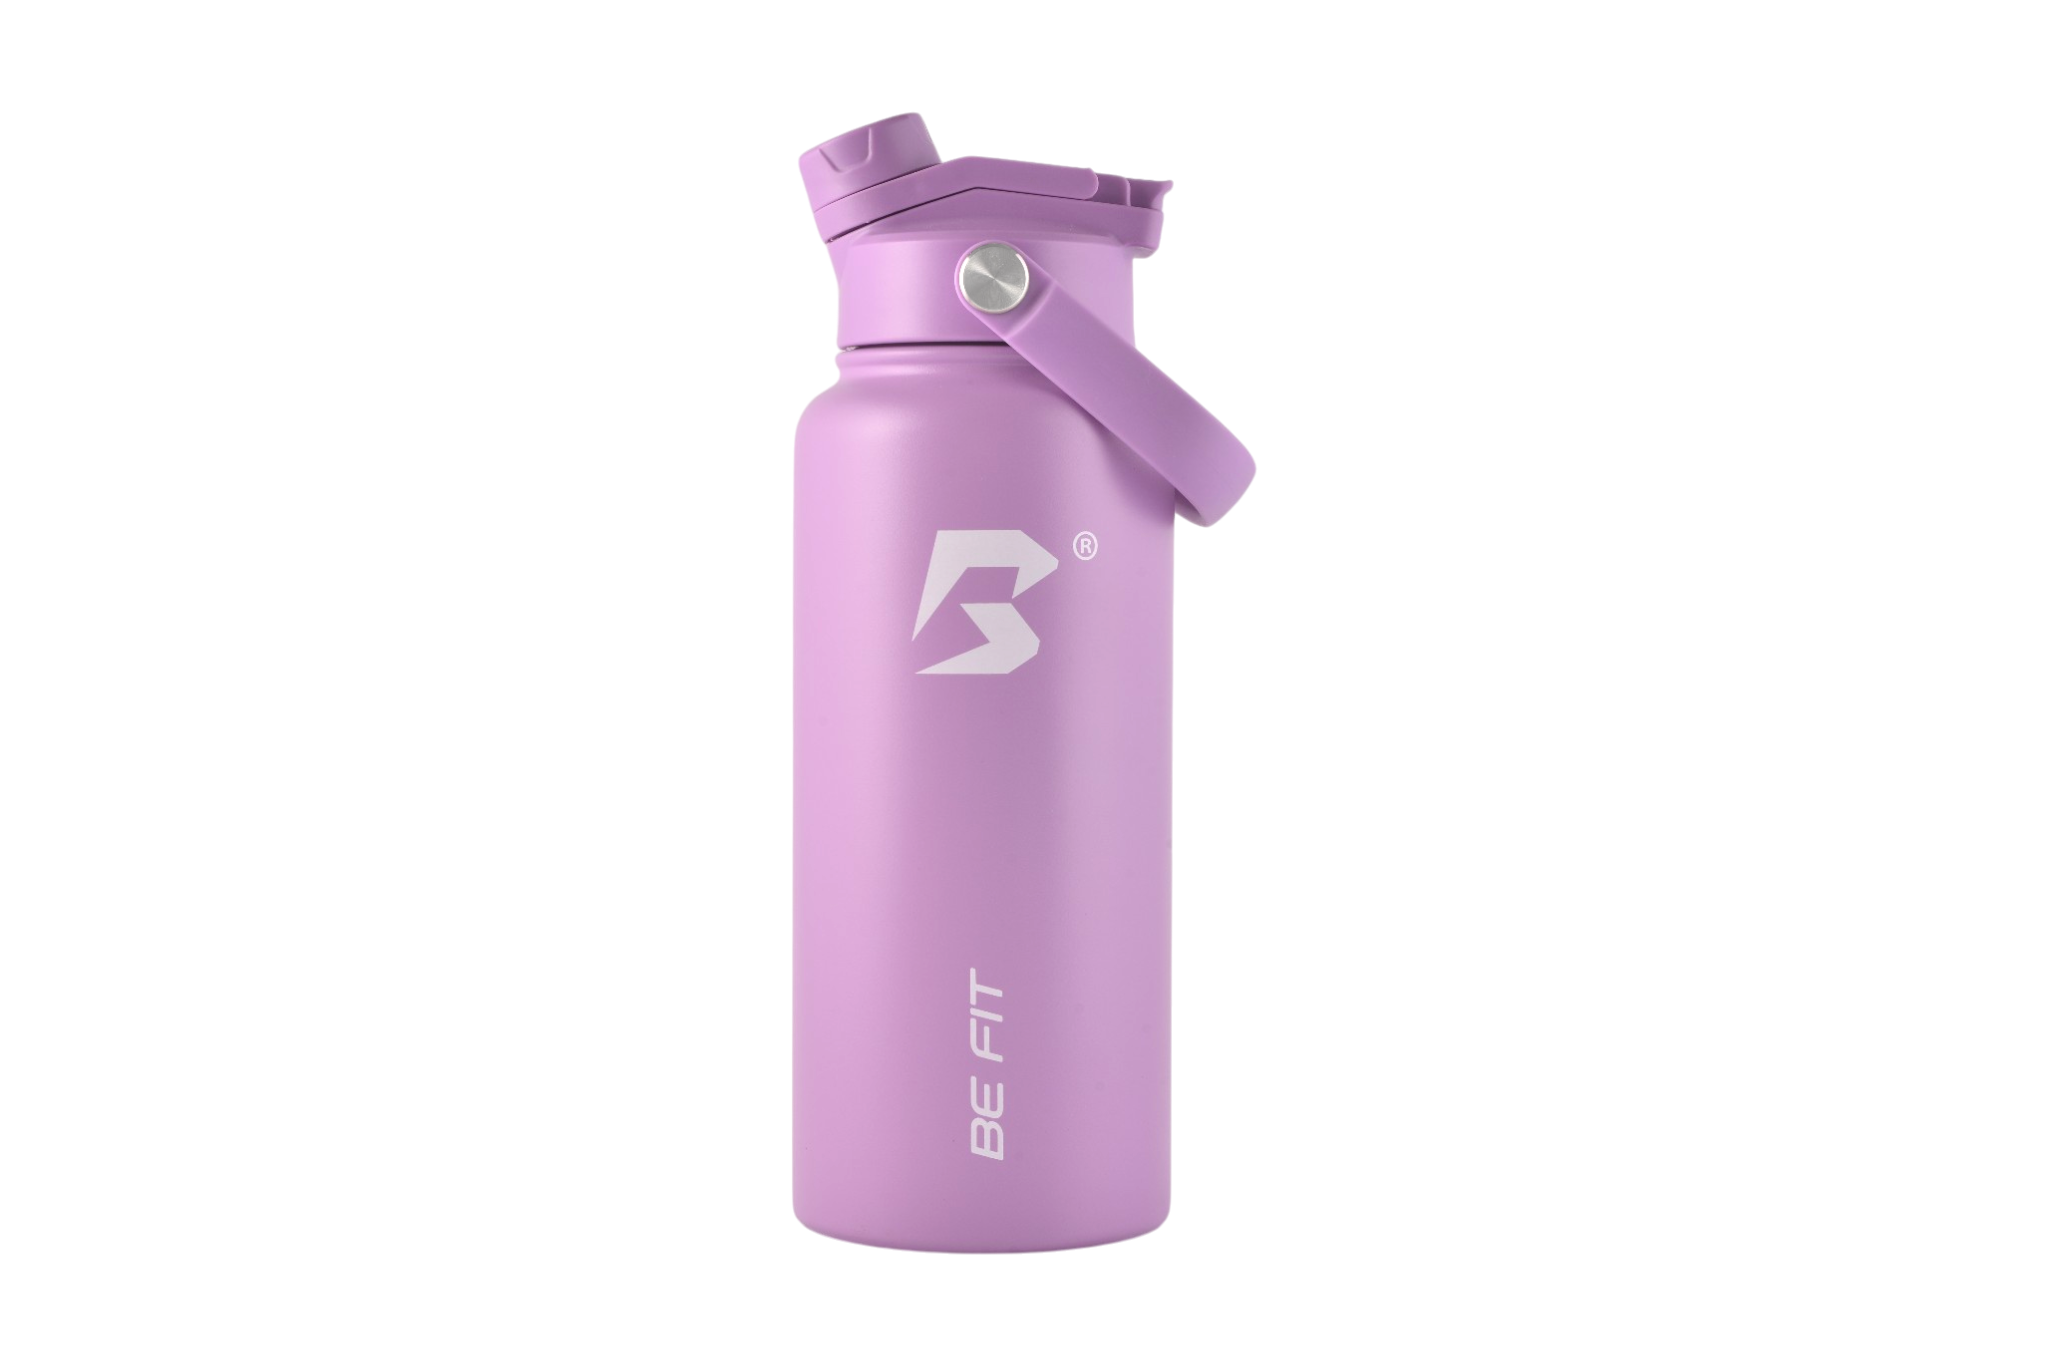
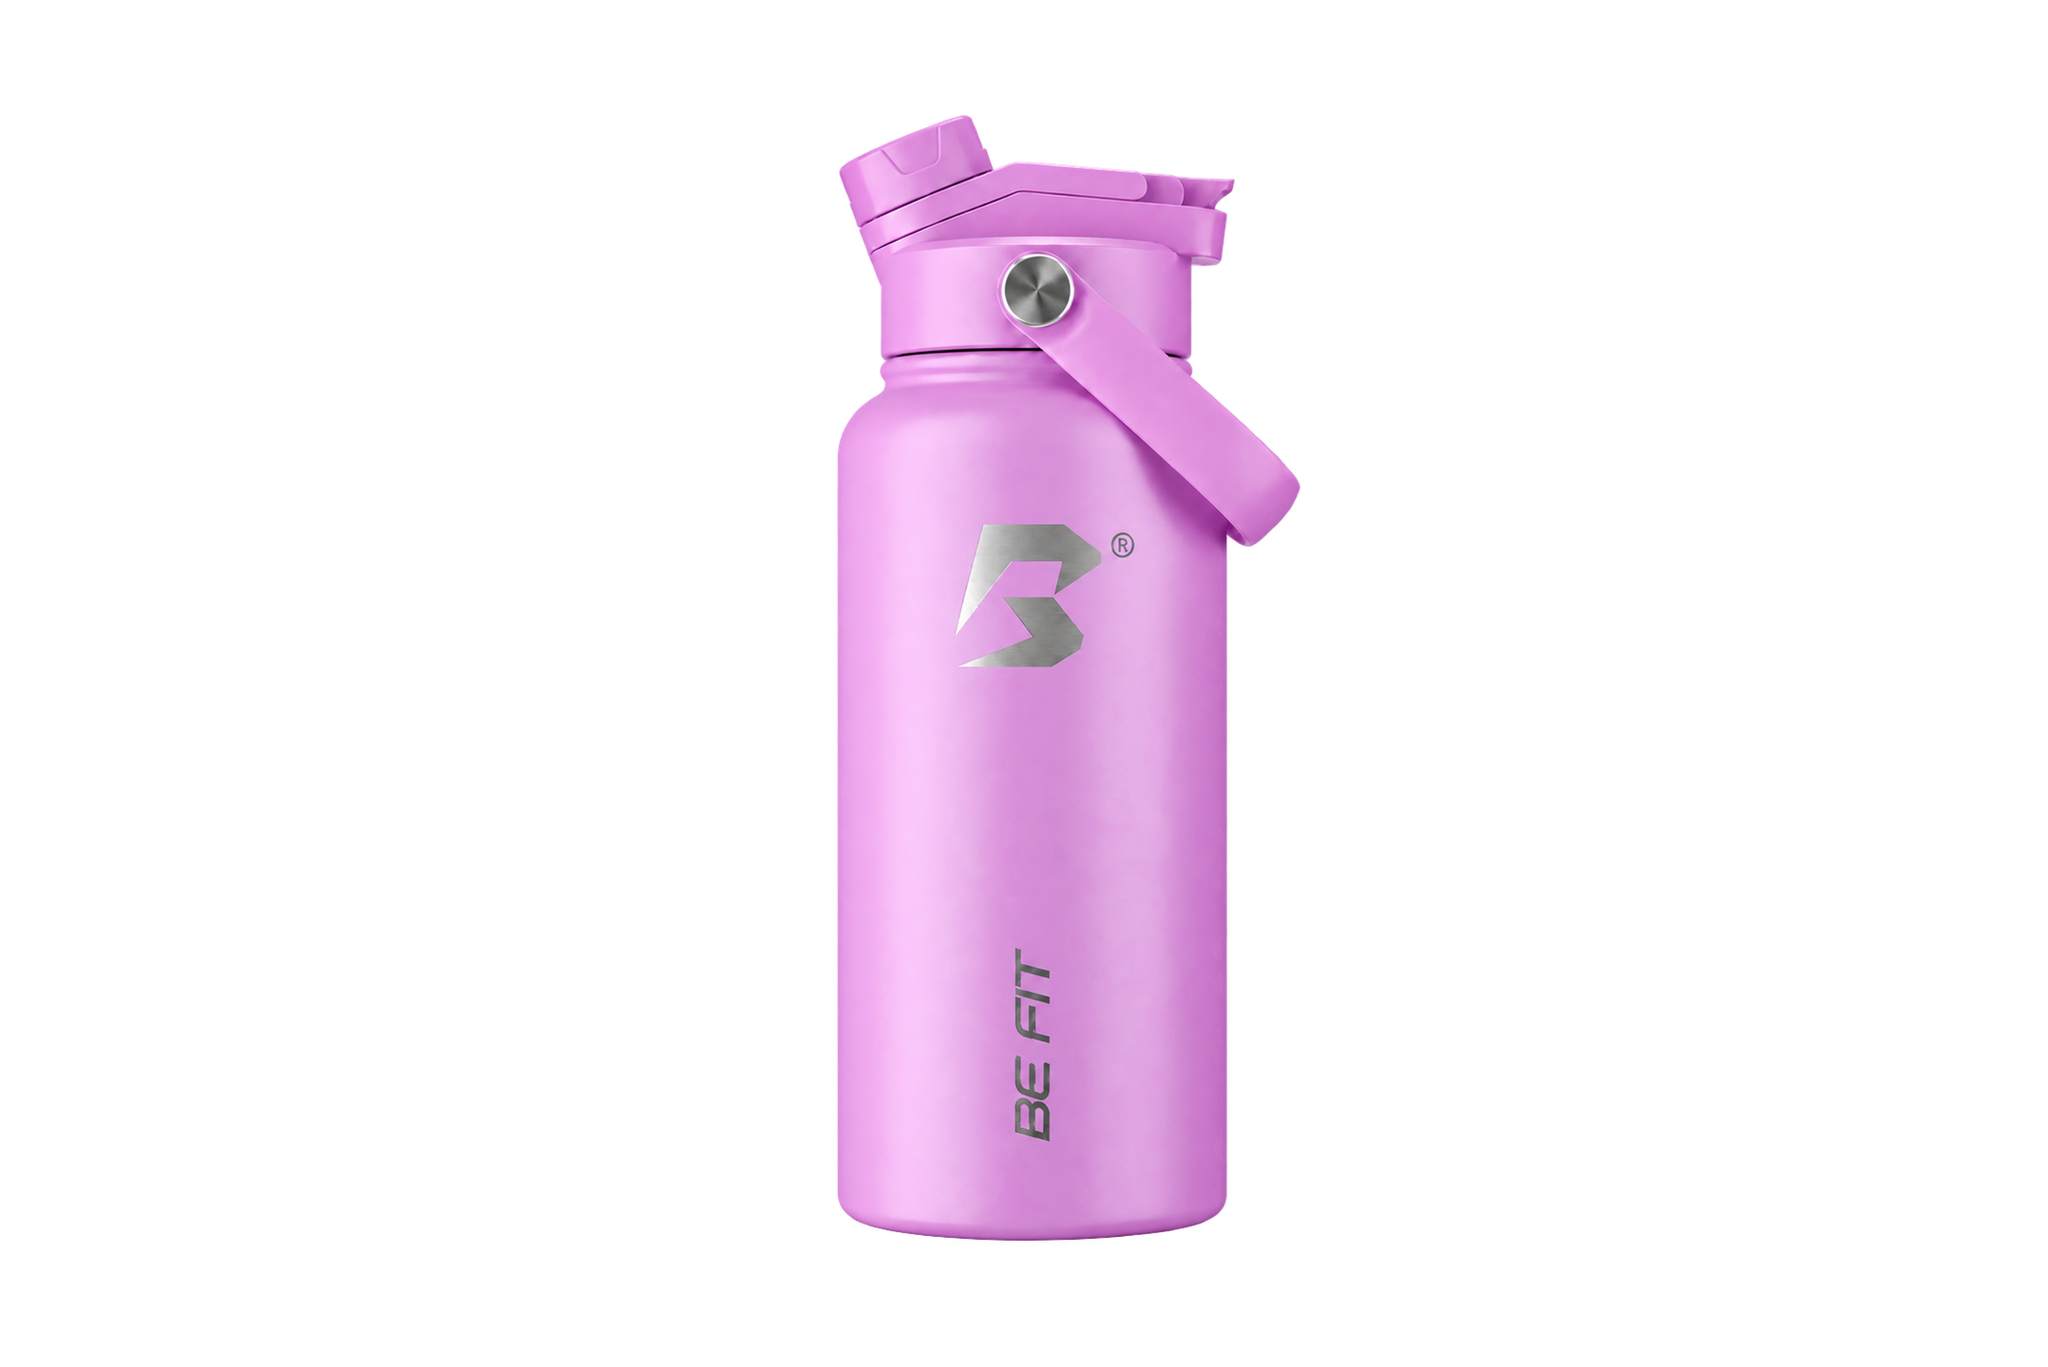
Update 1L bottle color assets

Changed region(s): [[0.375, 0.0614, 0.6562, 0.9217]]

diff --git a/src/components/Customizer.jsx b/src/components/Customizer.jsx
@@ -24,16 +24,16 @@ const normalizeColorKey = (s) => String(s || '').toLowerCase().replace(/[^a-z0-9
 
 // SWIGGER color definitions per format (Moved outside for robust matching)
 const SWIGGER_COLORS_946ML = [
-    { id: 'midnight-black', name: 'Midnight Black', hex: '#2C2C2C', img: '2026/03/rvs-drinkfles-1-liter-zwart.png' },
-    { id: 'pure-white', name: 'Pure White', hex: '#F5F5F5', img: '2025/12/rvs-drinkfles-1-liter-pure-white-swigger.jpg', lightColor: true },
-    { id: 'warm-white', name: 'Warm White', hex: '#E8E2D6', img: '2025/12/rvs-drinkfles-1-liter-warm-white-swigger.jpg', lightColor: true },
-    { id: 'sky-blue', name: 'Sky Blue', hex: '#8BAFD4', img: '2025/12/rvs-drinkfles-1-liter-sky-blue-swigger.jpg', lightColor: true },
-    { id: 'deep-navy', name: 'Deep Navy', hex: '#4A5568', img: '2025/12/rvs-drinkfles-1-liter-deep-navy-swigger.jpg' },
-    { id: 'berry-wine', name: 'Berry Wine', hex: '#B8878F', img: '2025/12/rvs-drinkfles-1-liter-berry-wine-swigger.jpg' },
-    { id: 'candy-pink', name: 'Candy Pink', hex: '#E8B0C0', img: '2025/12/rvs-drinkfles-1-liter-candy-pink-swigger.jpg', lightColor: true },
-    { id: 'lavender-purple', name: 'Lavender Purple', hex: '#B49CC8', img: '2025/12/rvs-drinkfles-1-liter-lavender-purple-swigger.jpg', lightColor: true },
-    { id: 'forest-green', name: 'Forest Green', hex: '#6B8F7B', img: '2025/12/rvs-drinkfles-1-liter-forest-green-swigger.jpg' },
-    { id: 'dip-dye-mint', name: 'Dip Dye Mint', hex: '#C5E8D8', img: '2025/12/rvs-drinkfles-1-liter-dip-dye-mint-swigger.jpg', lightColor: true },
+    { id: 'midnight-black', name: 'Midnight Black', hex: '#2C2C2C' },
+    { id: 'pure-white', name: 'Pure White', hex: '#F5F5F5', lightColor: true },
+    { id: 'white-frost', name: 'White Frost', hex: '#EEE9DC', lightColor: true },
+    { id: 'light-grey', name: 'Light Grey', hex: '#D3CEC5', lightColor: true },
+    { id: 'sky-blue', name: 'Sky Blue', hex: '#58A9ED', lightColor: true },
+    { id: 'deep-navy', name: 'Deep Navy', hex: '#273A68' },
+    { id: 'candy-pink', name: 'Candy Pink', hex: '#F29CC0', lightColor: true },
+    { id: 'lavender-purple', name: 'Lavender Purple', hex: '#CF77D9', lightColor: true },
+    { id: 'forest-green', name: 'Forest Green', hex: '#407A65' },
+    { id: 'sage-green', name: 'Sage Green', hex: '#A9B89E', lightColor: true },
 ];
 
 const SWIGGER_COLORS_710ML = [

diff --git a/tests/designItems.test.js b/tests/designItems.test.js
@@ -9,11 +9,13 @@ test('back print areas follow the visible body center for each bottle size', () 
     assert.equal(getPrintArea('946ml', 'FRONT').x, .31);
 });
 
-test('updated 1L black assets use their recalibrated body centers', () => {
+test('updated 1L assets use their recalibrated body centers', () => {
     assert.equal(getPrintArea('946ml', 'FRONT', 'midnight-black').x, .35);
     assert.equal(getPrintArea('946ml', 'BACK', 'midnight-black').x, .30);
-    assert.equal(getPrintArea('946ml', 'FRONT', 'pure-white').x, .31);
-    assert.equal(getPrintArea('946ml', 'BACK', 'pure-white').x, .365);
+    assert.equal(getPrintArea('946ml', 'FRONT', 'pure-white').x, .35);
+    assert.equal(getPrintArea('946ml', 'BACK', 'pure-white').x, .30);
+    assert.equal(getPrintArea('946ml', 'FRONT', 'sage-green').x, .35);
+    assert.equal(getPrintArea('946ml', 'BACK', 'white-frost').x, .30);
 });
 
 test('all rotated corners remain inside the print area across sizes and sides', () => {

diff --git a/src/components/ItemBottlePreview.jsx b/src/components/ItemBottlePreview.jsx
@@ -95,7 +95,7 @@ export default function ItemBottlePreview({ side, customization, selectedSize, s
     };
     const end = () => { gesture.current = null; };
     const selected = items.find(i => i.id === selectedItemId);
-    return <div className={`item-bottle-frame ${isCapture ? 'item-bottle-capture' : ''} ${/white|mint|pink|lila|lavender|sky/.test(selectedColor) ? 'item-bottle-light' : ''}`}
+    return <div className={`item-bottle-frame ${isCapture ? 'item-bottle-capture' : ''} ${/white|frost|grey|gray|sage|mint|pink|lila|lavender|sky/.test(selectedColor) ? 'item-bottle-light' : ''}`}
         onPointerDown={() => editable && onSelectItem(null)} data-testid="bottle-editor">
         <img ref={imageRef} src={bottleImageSrc} alt={t('bottlePreview.alt', { side })} draggable={false}
             className="item-bottle-image" onLoad={() => setIsImageLoading?.(false)} onError={() => { setImageError(true); setIsImageLoading?.(false); }} />

diff --git a/src/utils/itemArtwork.js b/src/utils/itemArtwork.js
@@ -90,7 +90,7 @@ export async function captureItemSide(items, size, side, fonts, bottleSrc, color
     const production = designCanvas.toDataURL('image/png');
     dctx.globalCompositeOperation = 'source-in';
     const gradient = dctx.createLinearGradient(0, 0, designCanvas.width, 0);
-    const light = /white|mint|pink|lila|lavender|sky/.test(color);
+    const light = /white|frost|grey|gray|sage|mint|pink|lila|lavender|sky/.test(color);
     gradient.addColorStop(0, light ? '#55575b' : '#96989d'); gradient.addColorStop(.45, light ? '#999ba0' : '#eeeeef'); gradient.addColorStop(1, light ? '#55575b' : '#77797e');
     dctx.fillStyle = gradient; dctx.fillRect(0, 0, designCanvas.width, designCanvas.height);
     ctx.drawImage(designCanvas, area.x * canvas.width, area.y * canvas.height, area.width * canvas.width, area.height * canvas.height);

diff --git a/src/utils/designItems.js b/src/utils/designItems.js
@@ -2,7 +2,10 @@
 export const BOTTLE_FRAME = { width: 433, height: 650 };
 // Updated 1L product photos use a wider, differently centered bottle body.
 // Add colors here as their new photos replace the legacy assets.
-const UPDATED_1L_ASSET_COLORS = new Set(['midnight-black']);
+const UPDATED_1L_ASSET_COLORS = new Set([
+    'midnight-black', 'pure-white', 'white-frost', 'light-grey', 'sky-blue',
+    'deep-navy', 'candy-pink', 'lavender-purple', 'forest-green', 'sage-green',
+]);
 export function getPrintArea(size, side, color) {
     if (size === '946ml' && UPDATED_1L_ASSET_COLORS.has(color)) return side === 'BACK'
         ? { x: .30, y: .405, width: .34, height: .285 }
